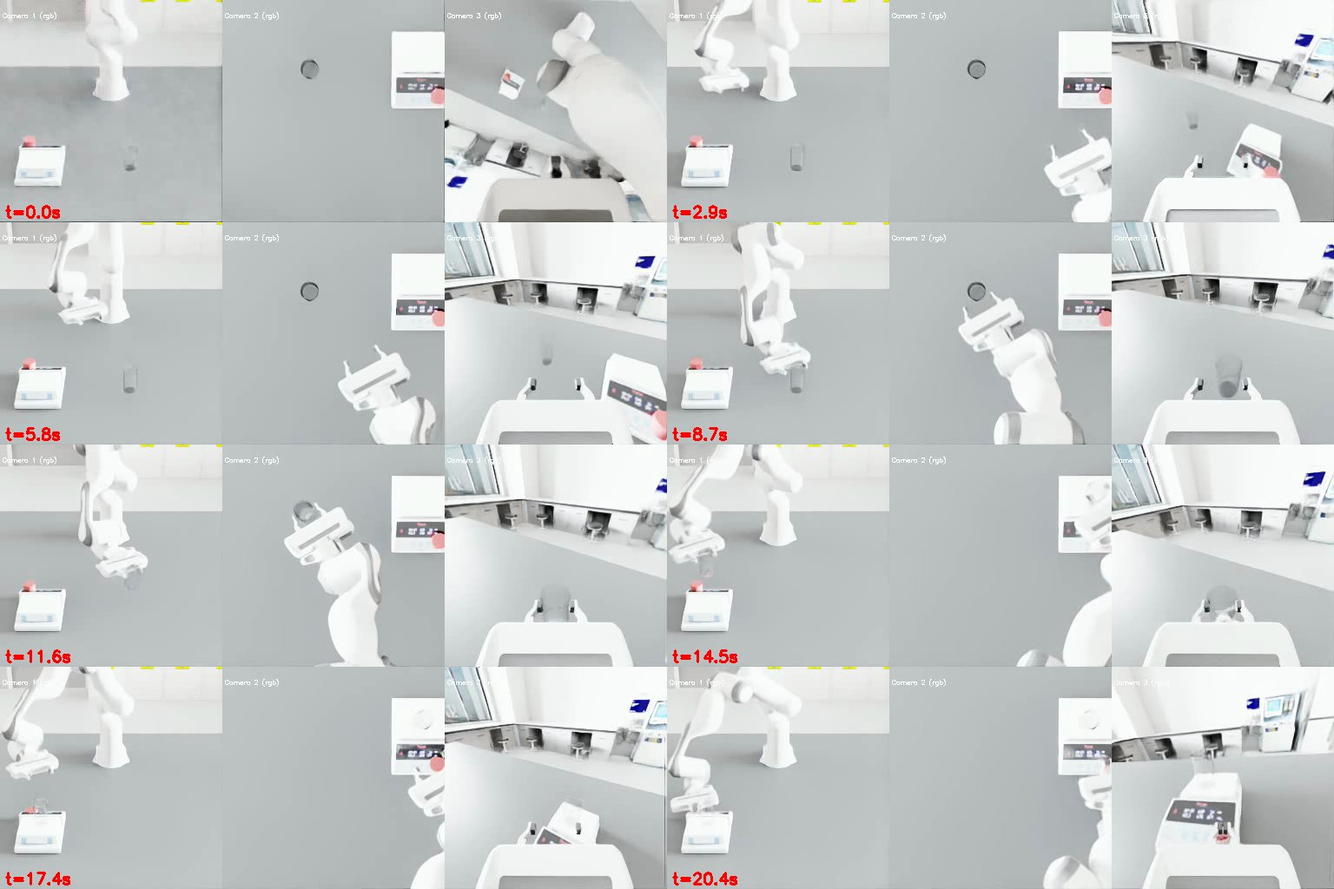
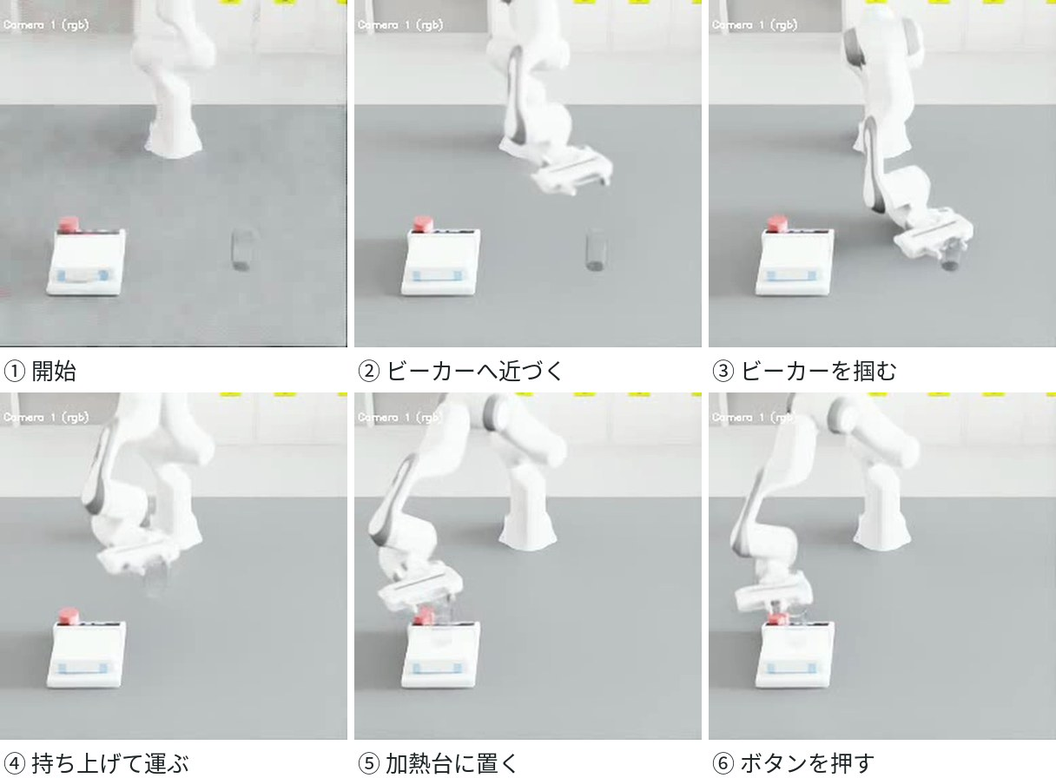
Align README with the report: task names, success criteria, labelled figures
Use the task names and the two success criteria (public code vs the paper's
2 s rule) as in the report, drop the supplementary force-control experiment
from the README (it stays in docs/dgx-spark-notes.md), and redraw the
HeatLiquid figures as labelled single-camera key frames.

Claude-Session: https://claude.ai/code/session_01VShbc68S948h3VzQS257k4

diff --git a/README.md b/README.md
@@ -1,84 +1,116 @@
-# 実験室ロボットの模倣学習をDGX Sparkで動かす（LabUtopia × ACT）
+# 実験室でのロボットの動作の模倣学習を DGX Spark 上で再現する
 
-Physical AI応用1講座の最終課題です。化学・生命科学の実験室を模したシミュレーター [LabUtopia](https://github.com/Rui-li023/LabUtopia)（NeurIPS 2025）で、ロボットアームの作業を模倣学習させました。デモの自動収集、学習、シミュレーター上の評価までを、すべて NVIDIA DGX Spark（aarch64、GB10）の1台で行っています。
+Physical AI応用1講座の最終課題です。化学・生命科学の実験室を模したシミュレーター [LabUtopia](https://github.com/Rui-li023/LabUtopia)（NeurIPS 2025）で、ロボットアームの作業を模倣学習させました。デモの自動収集、学習、シミュレーター上の評価までを、すべて NVIDIA DGX Spark の1台で行っています。
 
-- **AIの使い方**：付属のお手本（ステートマシン）が集めたデモから、画像を入力とする方策（ACT）を学習しました。評価では、学習した方策がカメラ画像を見てロボットを動かします。
-- **目的**：実験室の作業自動化に向けて、公開されたベンチマークを、手元のArm系のAIワークステーションで再現する手順を確立することです。論文はx86の環境（RTX 4090）を前提にしています。
+- **AIの使い方**：LabUtopia に付属するお手本プログラム（シミュレーターから物体の正確な位置を受け取り、決めた手順どおりにロボットアームを動かす自動制御）でデモを集め、画像を入力とする方策（ACT）を学習しました。評価では、学習した方策がカメラ画像とロボットの状態を見てロボットを動かします。
+- **目的**：公開されたベンチマークを、手元の Arm 系の AI ワークステーションで再現することです。論文は x86 系 CPU の PC と GPU（RTX 4090）で実験しています。
+
+以下、「上流」は LabUtopia の公開リポジトリ（このリポジトリの `repo/`）を指します。
+
+## 作業
+
+| 作業 | コード名 | 内容 |
+|---|---|---|
+| ビーカーを台に置く | `level1_place`（Level 1） | ビーカーを目標の台まで運んで置く。ビーカーを掴むところまではお手本プログラムが行い、方策は運んで置く部分を担当する（上流の設計どおり） |
+| ビーカーを加熱台に置いてボタンを押す | `level2_HeatLiquid`（Level 2。論文での名前は Heater Beaker） | ビーカーを掴み、加熱台に置き、ボタンを押す。3段階すべてを方策が担当する |
+
+どちらも、エピソードごとにビーカーと目標の位置を15cm四方の範囲でランダムに変えます。デモの収集と評価で同じ範囲を使います（分布内の評価）。範囲の大きさは論文（4.2節）と同じで、具体的な座標は論文に記載がないため、上流の設定の値を使っています。
 
 ## 結果
 
-| タスク | 内容 | デモ | 学習 | 評価：上流コードの判定 | 論文（ACT / DP） |
-|---|---|---|---|---|---|
-| `level1_place` | 掴んだビーカーを目標の台へ運んで置く（掴む動作はお手本） | 100本 | ACT、60エポック、約3時間 | **50/50（100%）** | 73.3% / 80.0% |
-| `level2_HeatLiquid` | ビーカーを掴む → 加熱台に置く → ボタンを押す（3段階すべてを方策が担当） | 100本 | ACT、51エポック、約9.5時間 | **49/50（98%）**（グリッパー補正あり）<br>0/3（補正なし） | 86.7% / 25.0% |
+学習した ACT の方策を、各作業50回ずつ動かしたときの成功回数です。2つの列の違いは、成功の判定方法だけです。
 
-**論文の記述に沿った判定での評価**
+| 作業 | 論文の基準で判定<br>（2秒間保てば成功） | 公開コードで判定<br>（一瞬でも満たせば成功） | 論文の成功率<br>（ACT / DP） |
+|---|---|---|---|
+| ビーカーを台に置く | **50/50（100%）** | 50/50（100%） | 73.3% / 80.0% |
+| ビーカーを加熱台に置いてボタンを押す（グリッパーの補正あり） | **46/50（92%）** | 49/50（98%） | 86.7% / 25.0% |
+| ビーカーを加熱台に置いてボタンを押す（グリッパーの補正なし） | — | 0/3（3回で打ち切り） | — |
 
-公開コードの判定は「条件に入った瞬間に成功」なので、論文よりゆるいと考えられます。そこで、論文に書かれている条件だけを使った判定でも評価しました。
-
-- 論文4.2節：「目標状態の許容範囲内に、最終段階の完了後2秒間続けて満たされる」
-- 論文付録C.1.2（Heater Beaker）：「容器を20cmより高く持ち上げる」
-
-許容範囲の数値は論文にないので、上流コードの値を使います。数値の書かれていない条件（倒れていない、など）は合否に使わず、ビーカーの傾きを計測して記録するだけにしました。実装は `patches/paper-success-eval.patch`、設定は `configs/eval_paper_*.yaml`（`infer.success_hold_steps: 120`、`infer.min_lift_m: 0.20`）です。
-
-| タスク | 上流コードの判定 | 論文の記述に沿った判定 |
-|---|---|---|
-| `level1_place` | 50/50 | **50/50（100%）** |
-| `level2_HeatLiquid` | 49/50 | **46/50（92%）** |
-| `level2_HeatLiquid`（補足：力制御 10N） | 50/50 | 50/50（100%） |
-
-- **HeatLiquidで失敗に変わった3回**：ボタンを押したあと、グリッパーがボタンの部品を引っかけて外してしまい、押された状態が約1.1〜1.4秒しか続かなかった（`results/level2_HeatLiquid_hold_failure_button.jpg`）。
-- **20cmの条件**：許容範囲に入った49回はすべて満たしていた（持ち上げ高さは20.6〜24.4cm）。
-- **成功時の傾き**（開始時との差、計測のみ）：HeatLiquidは中央値2.3°・最大6.7°、placeは中央値6.6°・最大22.6°。placeは握ったまま判定が成立するので、手首の角度を含む。
-- **公開リポジトリには、論文の数値を出した評価コードがない**：開発中の `Dev` ブランチも含めて確認した。
+- 学習：デモは各100本。「ビーカーを台に置く」は60エポック（約3時間）、「ビーカーを加熱台に置いてボタンを押す」は51エポック（約9.5時間）。
+- 補正なしの3回は、どれもビーカーを持ち上げては落とすことを繰り返して、上限の2500ステップに達しました。失敗が明らかだったので3回で打ち切りました。
+- DP（Diffusion Policy）は、論文で比較対象になっている別の学習手法です。このリポジトリでは学習していません。
 
 ![学習した方策が、ビーカーを加熱台に置いてボタンを押す様子](results/level2_HeatLiquid_policy_rollout.jpg)
 
-上の画像は、学習したACT方策による `level2_HeatLiquid` の1本目です。左から正面、真上、手首のカメラです。掴む、運んで置く、ボタンを押すまでのすべてを、方策が画像を見て行っています。
+学習した方策による「ビーカーを加熱台に置いてボタンを押す」の実行例です（正面のカメラ）。掴む、運んで置く、ボタンを押すまでのすべてを、方策がカメラ画像を見て行っています。
+
+### 成功の判定
+
+上流のコードに入っている成功の判定は、論文に書かれている判定と違います。上流は条件を一瞬でも満たせば成功としますが、論文は目標の状態を2秒間保つことを求めています。一方で、論文には判定の考え方が文章で書かれているだけで、具体的な値（許容範囲の距離、倒れていないとみなす角度など）がありません。論文の数値を出した評価コードも公開されていません（開発中の `Dev` ブランチも確認しましたが、判定はどれも一瞬の判定でした）。そこで、公開コードの判定と、論文の文章のうち値が分かる条件だけで組み立てた判定（論文の基準）の両方で評価しました。
+
+| | 公開コードの判定 | 論文の基準 |
+|---|---|---|
+| ビーカーを台に置く | ビーカーが目標の台から水平5cm以内・高さ5cm以内に入った瞬間に成功 | 左と同じ状態が2秒間（120ステップ）続けば成功 |
+| ビーカーを加熱台に置いてボタンを押す | ビーカーが加熱台から水平5cm以内にあり、ボタンが押し込まれた状態に入った瞬間に成功 | 左と同じ状態が2秒間続き、かつ途中でビーカーを20cmより高く持ち上げていれば成功 |
+
+- 2秒間（論文4.2節）と20cm（論文付録C.1.2）は、論文の値をそのまま使いました。
+- 許容範囲の距離は論文に値がないので、上流の値を流用しました。
+- 姿勢の条件（倒れていない、底面が接しているなど）は値がないので、推測で決めずに合否から外しました。そのため、論文の実際の判定より甘い可能性があります。
+- どちらの判定でも、手を放すことは求めていません。「ビーカーを台に置く」は、ビーカーを握ったままでも成功になります。
+- 実装は `patches/paper-success-eval.patch`、設定は `configs/eval_paper_*.yaml`（`infer.success_hold_steps: 120`、`infer.min_lift_m: 0.20`）です。
+
+**論文の基準での内訳**
+
+- 「ビーカーを台に置く」は、50回すべてでビーカーが許容範囲に2秒間とどまりました。
+- 「ビーカーを加熱台に置いてボタンを押す」は、49回が許容範囲に入りました。このうち3回は、ボタンを押したあとにグリッパーがボタンの部品を引っかけて外してしまい、押された状態が約1.1〜1.4秒しか続きませんでした（下の図）。この3回は、公開コードの判定では成功に数えられていました。
+- 残る1回は、ロボットアームがビーカーに近づかないまま上限の2500ステップに達しました。
+- 20cmの条件は、許容範囲に入った49回すべてで満たしていました（持ち上げ高さは20.6〜24.4cm）。
+
+![論文の基準で失敗になった例。ボタンを押したあと、部品が外れて押された状態が続かない](results/level2_HeatLiquid_hold_failure_button.jpg)
 
 `results/` にある、そのほかの画像は次のとおりです。
 
-- `level1_place_policy_rollout.jpg`：`level1_place` の様子。約0〜7秒の「掴む」まではお手本、その後は方策が動かす
+- `level2_HeatLiquid_demo.jpg`：お手本プログラムが集めたデモ
+- `level1_place_policy_rollout.jpg`：「ビーカーを台に置く」の様子。約0〜7秒の「掴む」まではお手本プログラム、その後は方策が動かす
 - `*_final_frames.jpg`：評価から無作為に選んだ8本の最終フレーム
-- `level2_HeatLiquid_failure_episode.jpg`：唯一の失敗例。腕がビーカーに近づかないまま、上限の2500ステップに達した
+- `level2_HeatLiquid_failure_episode.jpg`：公開コードの判定での唯一の失敗例
+- `gripper_label_gap.png`：デモでの片側の指の位置と、お手本プログラムの指令値（次の節）
 - `act_train_loss.png`：学習曲線
 
-評価条件の注意：
+## 工夫した点：把持が滑る原因の特定と補正
 
-- 物体の配置範囲は、学習時と同じです（分布内の評価）。
-- 成功の判定は、上流のコードのままです。
-  - `level1_place`：ビーカーが、目標から水平5cm以内、高さが初期値から5cm以内に入った時点で成功とします。グリッパーを開いたかどうかは見ていません。
-  - `level2_HeatLiquid`：ビーカーが加熱台の上（水平5cm以内）にあり、ボタンが押し込まれた時点で成功とします。
-- 1本の長さは、`level1_place` が平均13秒、`level2_HeatLiquid` が平均24秒（成功した回）です（シミュレーション時間）。
+「ビーカーを加熱台に置いてボタンを押す」で学習した方策は、最初の評価では3回とも失敗しました。ビーカーまで手を伸ばして挟むところまではできるのに、持ち上げると滑り落ちてしまうのです。原因は、デモの記録方式にありました。
 
-### 把持の失敗と、その対策（グリッパー補正）
+- グリッパーの指は位置で制御されていて、目標の位置が物体の内側にあると、そこへ近づこうとして物体を押します。これが握る力になります。
+- 指の値は、片側の指の位置（中心からの距離、単位m）です。お手本プログラムは、0.022（22.0mm）まで閉じる指令を出します。実際の指はビーカーに当たって約0.0274（27.4mm）で止まり（ビーカーの幅は約55mm）、この5.4mmの差が握る力を生んでいました。
+- ところが LabUtopia は、行動として「次の時刻の関節角」、つまり指令値ではなく実際に到達した位置を記録します。学習した方策も記録どおり0.0274を指令するので、握る力が生まれず、ビーカーが滑り落ちます。
 
-`level2_HeatLiquid` で学習した方策は、最初の評価では3回とも失敗しました。ビーカーまで手を伸ばして挟むところまではできるのに、持ち上げると滑り落ちてしまうのです。原因は、デモの記録方式にありました。
+![デモでの片側の指の位置。握っている区間は27.4mmで、お手本の指令22.0mmより5.4mm外側にある](results/gripper_label_gap.png)
 
-- LabUtopiaのデモは、行動として「次の時刻の関節角」、つまり指令した値ではなく実際の位置を記録しています。
-- 指の値は、片側の指の位置（中心からの距離、単位m）です。ビーカーを握っている間、指はビーカーに当たって約0.0274（27.4mm）で止まっています（ビーカーの幅は約55mm）。一方で、お手本の指令は0.022（22.0mm）まで閉じる値でした。指は位置で制御されているので、この5.4mmの差が、握る力になっています。
-- 学習した方策は、記録された実際の位置を指令します。指令が今の位置と同じなので、握る力が生まれず、ビーカーが滑り落ちます。
+推論のときだけ、方策が「閉じる」側の値（0.035未満。全開は0.04）を出したら、0.006（お手本の差0.0054を丸めた値）だけ深く閉じるようにしました（`patches/infer-gripper-squeeze.patch`。評価の設定で `infer.gripper_squeeze` を指定したときだけ効きます）。学習はやり直していません。この補正で、成功率は0/3から、論文の基準で46/50、公開コードの判定で49/50になりました。
 
-推論のときだけ、方策が「閉じる」側の値（0.035未満。全開は0.04）を出したら、0.006（お手本の差0.0054を丸めた値）だけ深く閉じるようにしました（`patches/infer-gripper-squeeze.patch`。評価の設定で `infer.gripper_squeeze` を指定したときだけ効きます）。この補正で、成功率は0/3から49/50になりました。
+論文には、グリッパーの指令の扱いや握る力についての記述がなく、論文の実験でこの問題にどう対応したかは分かりません。
 
-#### 補足：力制御での把持
+## DGX Spark（aarch64）で動かすための対応と、上流のコードへの修正
 
-上流の開発中の `Dev` ブランチでは、グリッパーを一定の力で閉じる方式が加えられていました。論文には制御方式の記述がなく、出力は「次の時刻の関節の位置」とだけ書かれているので、上の補正（位置の指令のまま）を本命の結果とし、力制御は比較として試しました。
+**aarch64 で動かすための対応**
+- PyPIのPyTorchは、aarch64ではCPU版になります。そこで、uvの `override-dependencies` でCUDA 13版に差し替えました。Isaac Simが固定しているtorch 2.7は、GB10に対応していないためです。
+- Isaac Simの拡張機能がtorchを読み込む時点で、`libc10.so: cannot allocate memory in static TLS block` が起きて異常終了していました。`GLIBC_TUNABLES=glibc.rtld.optional_static_tls=16384` と、libgompの事前読み込みで解消しました。
+- 上流の `--headless` は、オプションを受け取るだけで使われておらず、常に画面を開こうとしていました。画面のないサーバーでも動くように直しました（`patches/headless-main.patch`）。
 
-- 方法：方策が「閉じる」側の値を出したら、指の目標を全閉にし、指を動かす力の上限を10Nにする（`infer.gripper_force: 10`）。学習はやり直していない。標準の指の駆動（位置ゲイン400、最大7.2N）では上限が効かないので、駆動する側の指だけ `Dev` ブランチと同じゲイン（400→6000、減衰80→200）にした。
-- 試走（各3回）：10N・20N・40Nのすべてで3/3成功。ただし強く握るほど、成功時のビーカーの傾きが大きくなった（10Nで1.8〜2.3°、20Nで9.0〜12.1°、40Nで19.6〜29.2°）。
-- 10Nでの評価（50回、論文の記述に沿った判定）：**50/50**。成功時の傾きは中央値2.2°・最大3.9°、持ち上げ高さは23.5〜26.9cm。
-- 位置の補正（46/50）との差は、50回ずつでは統計的に有意ではない（Fisher の正確検定で p = 0.12）。
+**上流のコードの不具合への対応**
 
-設定は `configs/eval_paper_act_level2_HeatLiquid_force.yaml`、実装は `patches/infer-gripper-squeeze.patch` です。
+上流のコードは、そのままでは学習も推論も動きませんでした。上流のファイルはなるべく書き換えず、上書きの設定と小さなスクリプトで対応しました。
+- **学習の設定**：学習コードと設定ファイルで項目名（`checkpoint.topk`、カメラ名）が食い違っていたので、`configs/train/dgx_train_act.yaml` で上書きしました。
+- **データの形式**：学習側は、エピソードを1つにまとめたHDF5しか読めないため、`scripts/make_dataset.py` を用意しました。
+- **重みの形式**：学習で保存される重みと、推論側が読む形式が違うため、`scripts/export_policy.py` で変換します。テンソルだけを書き出すので、推論側はPyTorchの安全な読み込み（`weights_only`）のまま読めます。
+- **推論時の切り替え**：推論モードで、掴み終えても方策に制御が移らず止まる不具合を直しました（`patches/place-infer-handover.patch`）。
+- **成功判定**：`placepress` の成功判定は、代入のつもりが比較（`==`）になっていて、推論モードでは成功してもエピソードが終わらず、成功として数えられませんでした。これを直しました（`patches/placepress-infer-success.patch`）。
 
-同時に、上流の成功判定にあった不具合も直しています（`patches/placepress-infer-success.patch`）。代入のつもりが比較（`==`）になっていたため、推論モードでは成功してもエピソードが終わらず、成功として数えられませんでした。
+**デモ収集の高速化**
+- Isaac Simを複数プロセスで同時に動かす `scripts/collect_parallel.sh` を作りました。
+- 200本のデモを、約3.5時間で集めました。お手本プログラムの成功率は201回中200回で、成功した回だけを保存しています。
+
+**安全性の確認**
+- 実行前に、上流のコードとアセットを静的に検査しました（[docs/security-review.md](docs/security-review.md)）。
+
+詳しい経緯、測定値、試したほかのタスク（Level 1〜5の8タスク）は [docs/dgx-spark-notes.md](docs/dgx-spark-notes.md) にあります。
 
 ## 環境
 
 | 項目 | 構成 |
 |---|---|
-| 計算機 | NVIDIA DGX Spark（GB10、sm_121、メモリ121GB、Ubuntu 24.04、aarch64） |
+| 計算機 | NVIDIA DGX Spark（GB10 Grace Blackwell Superchip。CPU：Arm 20コア〔Cortex-X925 ×10、Cortex-A725 ×10〕、CPU と GPU で共有するメモリ 128GB、Ubuntu 24.04） |
 | シミュレーター | Isaac Sim 5.1.0（`isaacsim[all,extscache]`、aarch64版） |
 | Python | 3.11（uv管理） |
 | PyTorch | 2.10.0+cu130（torchvision 0.25.0、torchaudio 2.10.0） |
@@ -114,46 +146,23 @@ bash scripts/collect_parallel.sh collect_level2_HeatLiquid 34 33 33 -- --backend
 bash scripts/train.sh dgx_train_act data/level1_place act_level1_place \
   training.num_epochs=60 training.checkpoint_every=10 training.val_every=20
 
-# 4. 推論用の重みを書き出し、configs/eval_act_level1_place.yaml の重みの場所を合わせて評価
+# 4. 推論用の重みを書き出し、configs/eval_*.yaml の重みの場所を合わせて評価
 .venv/bin/python scripts/export_policy.py out/train/<run>/checkpoints/latest.ckpt out/train/<run>/checkpoints/policy_ema.ckpt
+# 公開コードの判定
 bash scripts/collect_parallel.sh eval_act_level1_place 25 25
 bash scripts/collect_parallel.sh eval_act_level2_HeatLiquid 17 17 16 -- --backend gpu   # infer.gripper_squeeze を指定済み
-LABUTOPIA_GRIPPER_FORCE=10 bash scripts/collect_parallel.sh eval_paper_act_level2_HeatLiquid_force 17 17 16 -- --backend gpu   # 補足：力制御
+# 論文の基準
+bash scripts/collect_parallel.sh eval_paper_act_level1_place 25 25
+bash scripts/collect_parallel.sh eval_paper_act_level2_HeatLiquid 17 17 16 -- --backend gpu
 ```
-
-## 工夫した点
-
-**aarch64（DGX Spark）で動かすための対応**
-- PyPIのPyTorchは、aarch64ではCPU版になります。そこで、uvの `override-dependencies` でCUDA 13版に差し替えました。Isaac Simが固定しているtorch 2.7は、GB10に対応していないためです。
-- Isaac Simの拡張機能がtorchを読み込む時点で、`libc10.so: cannot allocate memory in static TLS block` が起きて異常終了していました。`GLIBC_TUNABLES=glibc.rtld.optional_static_tls=16384` と、libgompの事前読み込みで解消しました。
-- 上流の `--headless` が実際には効いていなかったので、画面のないサーバーでも動くように直しました（`patches/headless-main.patch`）。
-
-**上流のコードの不具合への対応**
-
-上流のコードは、そのままでは学習も推論も動きませんでした。上流のファイルはなるべく書き換えず、上書きの設定と小さなスクリプトで対応しました。
-- **学習の設定**：学習コードと設定ファイルで項目名（`checkpoint.topk`、カメラ名）が食い違っていたので、`configs/train/dgx_train_act.yaml` で上書きしました。
-- **データの形式**：学習側は、エピソードを1つにまとめたHDF5しか読めないため、`scripts/make_dataset.py` を用意しました。
-- **重みの形式**：学習で保存される重みと、推論側が読む形式が違うため、`scripts/export_policy.py` で変換します。テンソルだけを書き出すので、推論側はPyTorchの安全な読み込み（`weights_only`）のまま読めます。
-- **推論時の切り替え**：推論モードで、掴み終えても方策に制御が移らず止まる不具合を直しました（`patches/place-infer-handover.patch`）。
-- **成功判定**：`placepress` の成功判定は、代入のつもりが比較になっていて、推論モードでは成功が数えられませんでした。これを直しました（`patches/placepress-infer-success.patch`）。
-- **把持力の補正**：デモの記録方式が原因で、学習した方策の把持が滑る問題がありました。推論時に、閉じる指令を補正して解決しました（`patches/infer-gripper-squeeze.patch`。詳しくは「結果」の節）。
-
-**デモ収集の高速化**
-- Isaac Simを複数プロセスで同時に動かす `scripts/collect_parallel.sh` を作りました。
-- 200本のデモ（HeatLiquid 100本、place 100本）を、約3.5時間で集めました。お手本の成功率は、201回中200回です。
-
-**安全性の確認**
-- 実行前に、上流のコードとアセットを静的に検査しました（[docs/security-review.md](docs/security-review.md)）。
-
-詳しい経緯、測定値、試したほかのタスク（Level 1〜5の8タスク）は [docs/dgx-spark-notes.md](docs/dgx-spark-notes.md) にあります。
 
 ## 構成
 
 ```text
 ├── README.md
 ├── pyproject.toml, uv.lock, .python-version   # uv環境（Isaac Sim 5.1 + PyTorch cu130）
-├── scripts/      # 起動・並列収集・データ化・学習・重みの書き出し・パッチ適用
-├── configs/      # 収集（collect_*）・評価（eval_*）・動作確認（smoke_*）・学習（train/）の設定
+├── scripts/      # 起動・並列収集・データ化・学習・重みの書き出し・パッチ適用・動画の作成
+├── configs/      # 収集（collect_*）・評価（eval_*）・動作確認（smoke_*）・学習（train/）・動画（video/）の設定
 ├── patches/      # 上流LabUtopiaへの修正
 ├── docs/         # 作業記録、セキュリティ確認
 ├── results/      # 評価の代表フレーム、学習曲線
